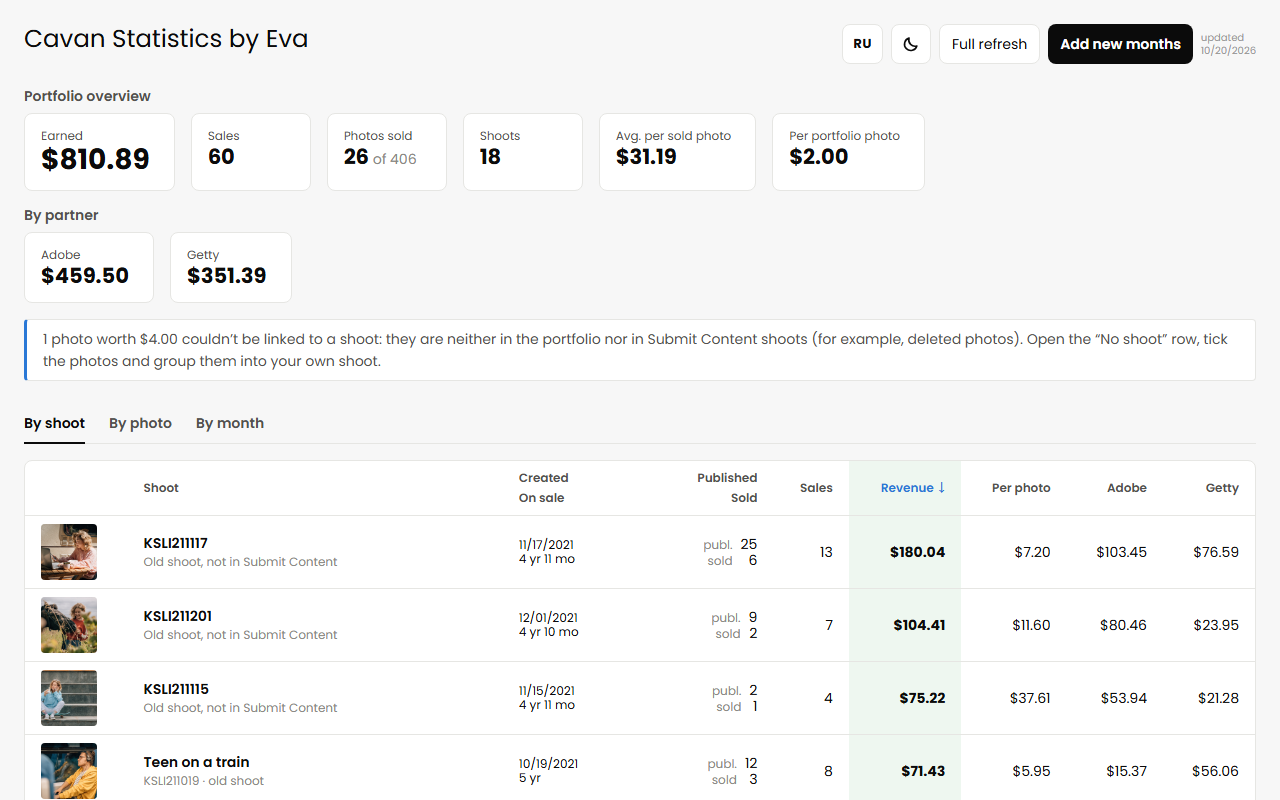
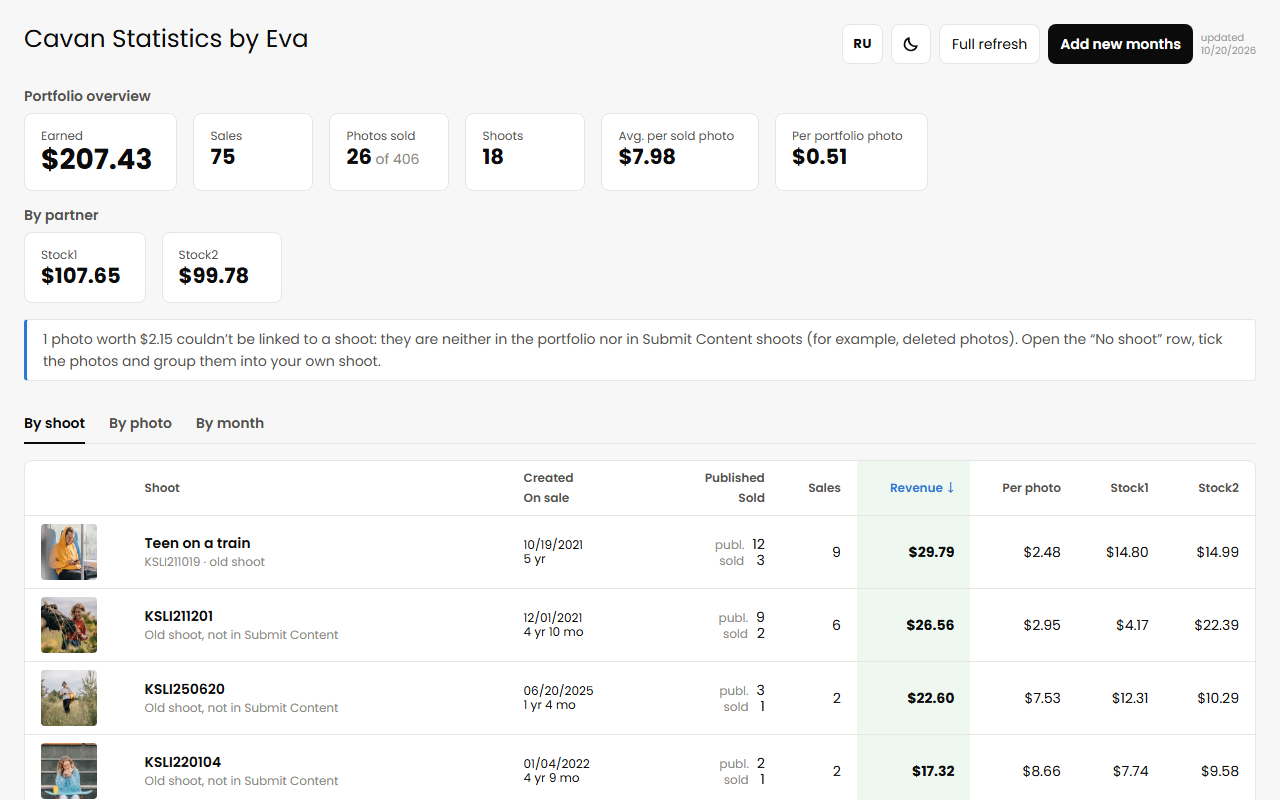
chore: store screenshots with smaller demo amounts and generic partner names

diff --git a/store/listing.md b/store/listing.md
@@ -59,7 +59,7 @@ See what every photo and every shoot actually earns you on Cavan Images.
 
 Cavan shows sales month by month and photo by photo. This extension collects all of it from your own Cavan account and puts it together:
 
-• By shoot — revenue, sales, published and sold photos, revenue per photo, time on sale, split by partner (Adobe, Getty and others). Open a shoot to see its sold photos, and the unsold ones in grey.
+• By shoot — revenue, sales, published and sold photos, revenue per photo, time on sale, split by partner agency. Open a shoot to see its sold photos, and the unsold ones in grey.
 • By photo — every photo that sold, with search and sorting by any column.
 • By month — revenue and number of sales per month, over the size of your portfolio, to see whether more photos mean more money.
 • Portfolio overview — total earnings, sales, photos sold, average per sold photo and per portfolio photo.
@@ -82,7 +82,7 @@ This is an independent project and is not affiliated with Cavan Images.
 
 Cavan показывает продажи по месяцам и по отдельным фото. Расширение собирает всё это из вашего аккаунта Cavan и сводит вместе:
 
-• По съёмкам — доход, продажи, опубликованные и проданные фото, доход на одно фото, срок в продаже, разбивка по партнёрам (Adobe, Getty и другие). Внутри съёмки — проданные фото, а непроданные серым.
+• По съёмкам — доход, продажи, опубликованные и проданные фото, доход на одно фото, срок в продаже, разбивка по партнёрским агентствам. Внутри съёмки — проданные фото, а непроданные серым.
 • По фото — все проданные фото с поиском и сортировкой по любой колонке.
 • По месяцам — доход и число продаж по месяцам на фоне размера портфеля: видно, растёт ли доход вместе с портфелем.
 • Общая статистика — весь доход, продажи, проданные фото, средний доход с проданного фото и на одно фото портфеля.
